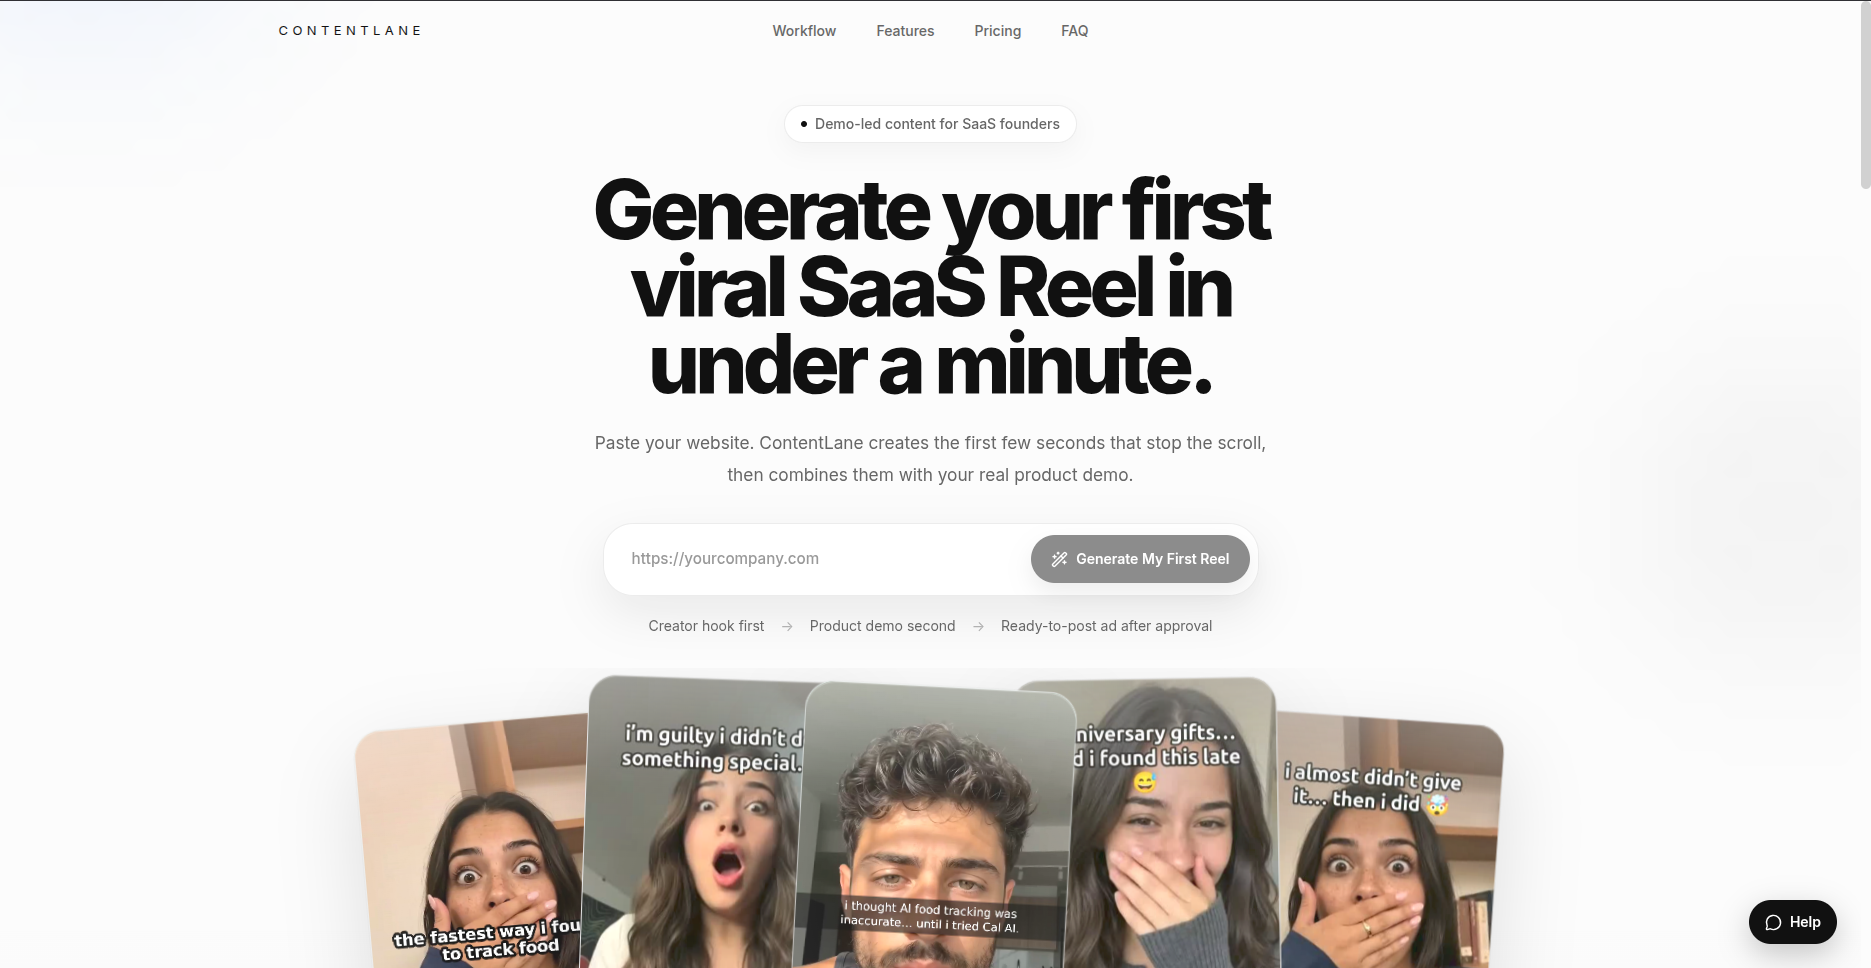
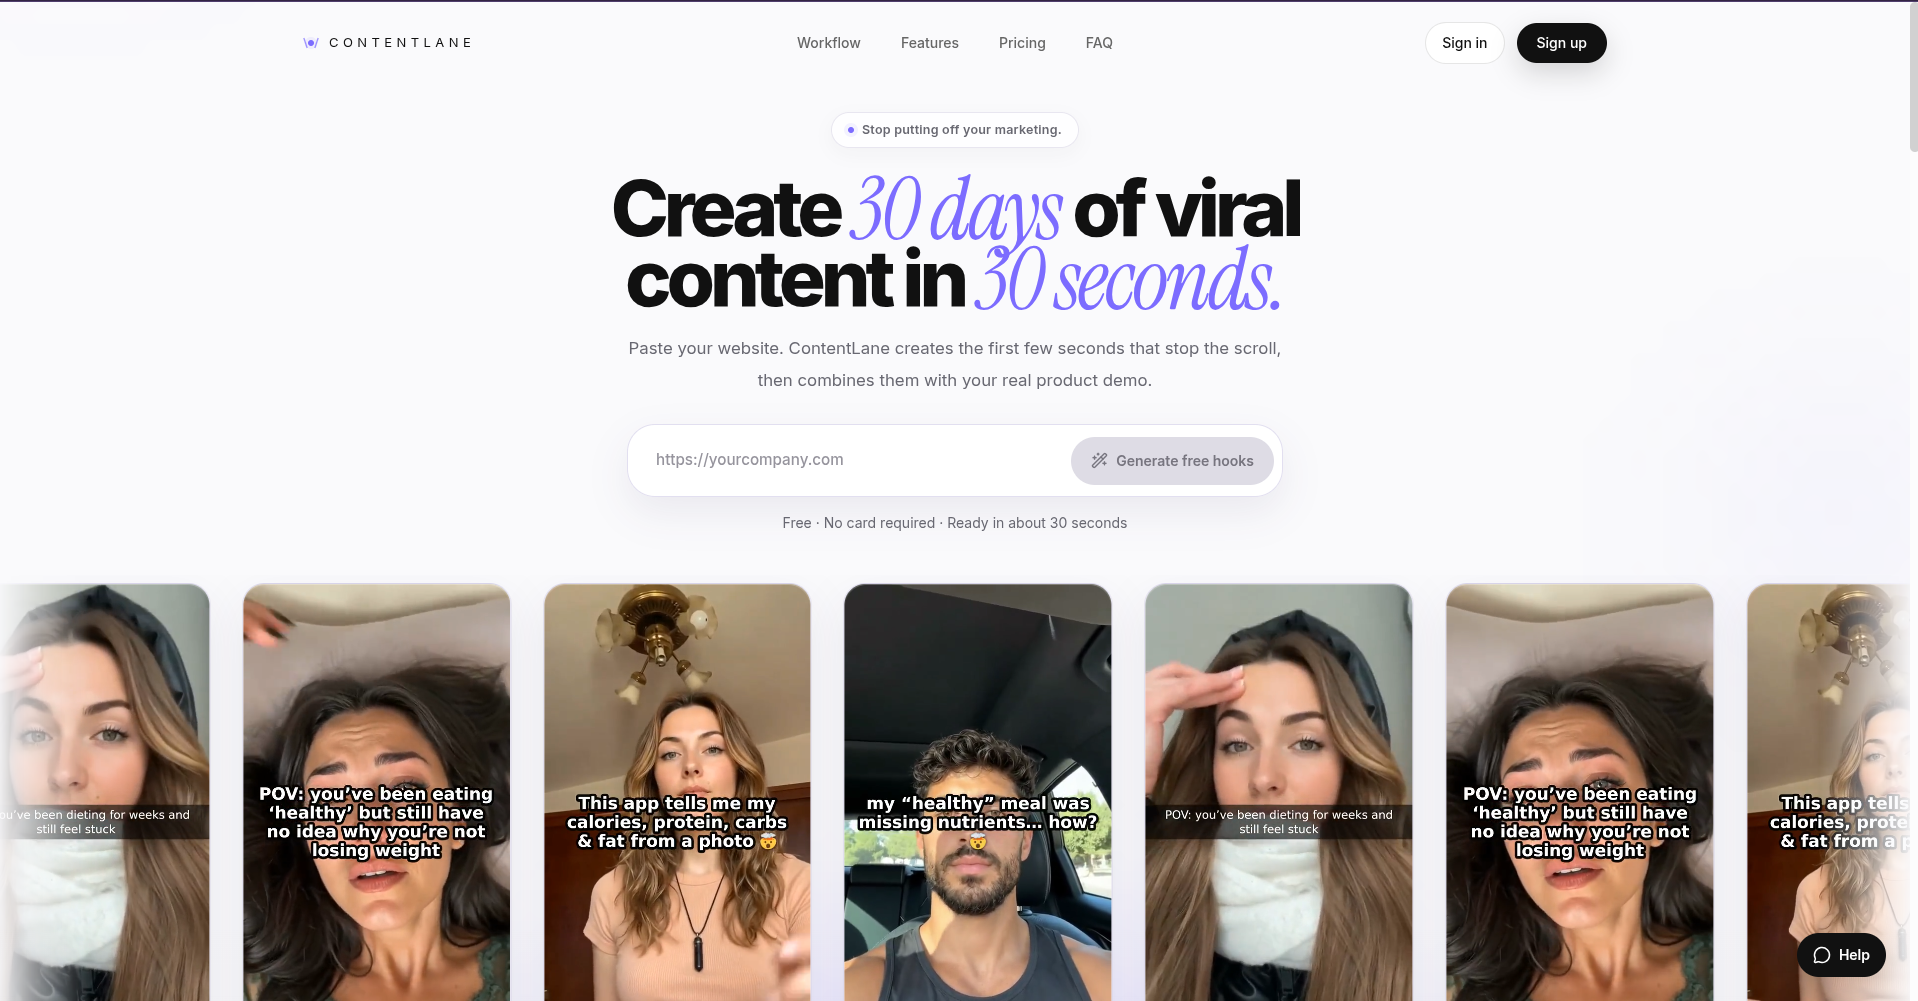
Update ContentLane project screenshot

diff --git a/app/data/projects.ts b/app/data/projects.ts
@@ -6,6 +6,8 @@ export type Project = {
   image?: {
     src: string;
     alt: string;
+    width: number;
+    height: number;
   };
 };
 
@@ -18,6 +20,8 @@ export const projects: Project[] = [
     image: {
       src: "/contentlane-screenshot.png",
       alt: "ContentLane website preview",
+      width: 1918,
+      height: 1001,
     },
   },
   {
@@ -29,6 +33,8 @@ export const projects: Project[] = [
     image: {
       src: "/perkpilot-screenshot.png",
       alt: "PerkPilot website preview",
+      width: 1871,
+      height: 968,
     },
   },
 ];

diff --git a/app/components/projects.tsx b/app/components/projects.tsx
@@ -41,8 +41,8 @@ export default function Projects({ projects }: ProjectsProps) {
                 <Image
                   src={project.image.src}
                   alt={project.image.alt}
-                  width={1871}
-                  height={968}
+                  width={project.image.width}
+                  height={project.image.height}
                   unoptimized
                   className="project-preview mb-5"
                 />
